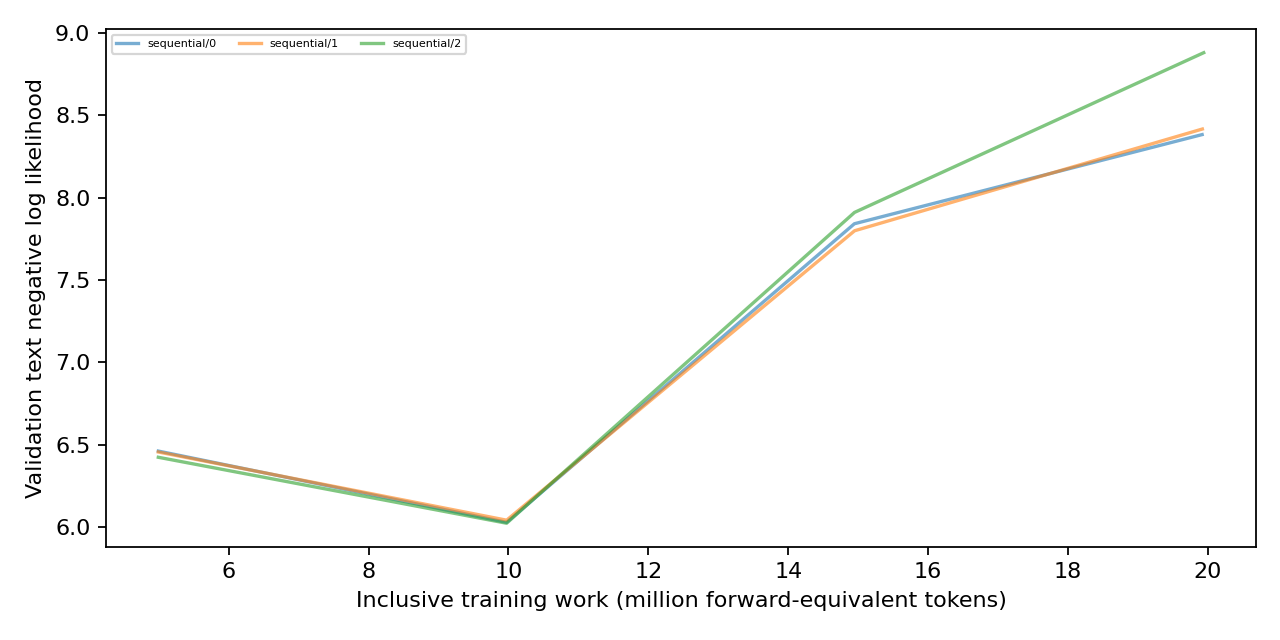
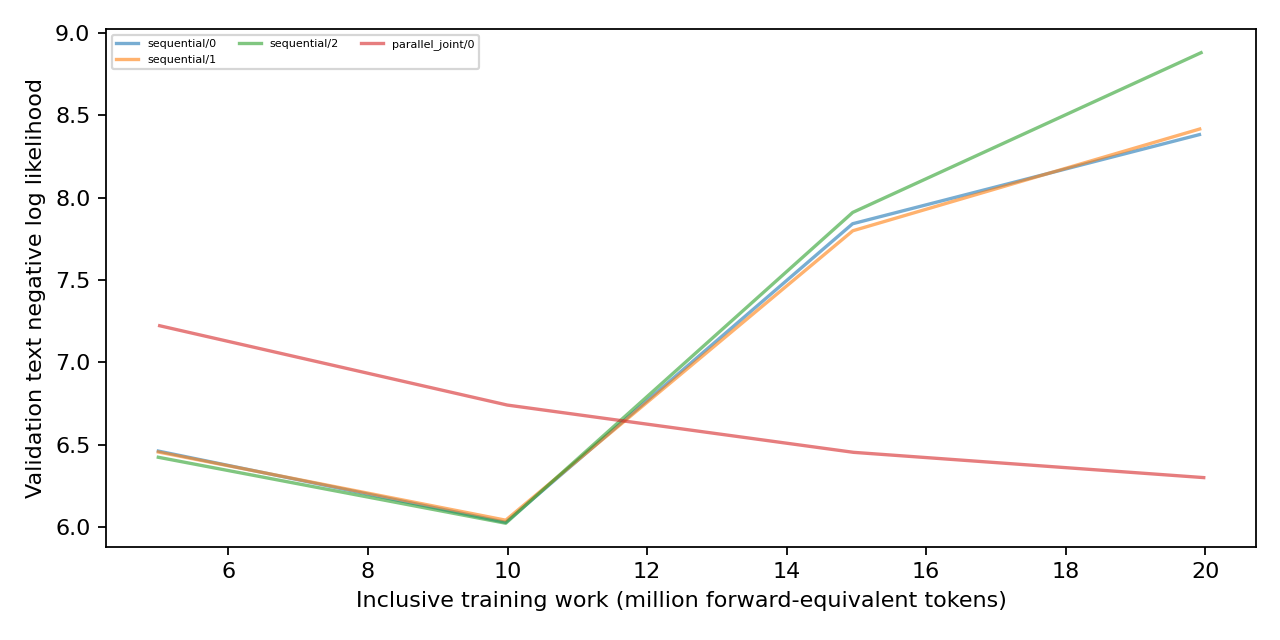
Report verified unified-training pilot progress

diff --git a/experiments/01_scratch_joint_objectives/results.md b/experiments/01_scratch_joint_objectives/results.md
@@ -7,7 +7,7 @@
 | sequential | 0 | complete | 19.918 | 0.2504 [0.2334, 0.2682] | 0.0227 [0.0160, 0.0323] | 8.3725 [8.3531, 8.3909] | 0.5234 [0.4624, 0.5838] / 0.4922 [0.4315, 0.5531] |
 | sequential | 1 | complete | 19.921 | 0.2416 [0.2248, 0.2592] | 0.0235 [0.0166, 0.0332] | 8.3701 [8.3468, 8.3929] | 0.5312 [0.4701, 0.5915] / 0.4688 [0.4085, 0.5299] |
 | sequential | 2 | complete | 19.941 | 0.2580 [0.2408, 0.2760] | 0.0114 [0.0069, 0.0187] | 8.8562 [8.8332, 8.8797] | 0.5117 [0.4508, 0.5723] / 0.5039 [0.4431, 0.5646] |
-| parallel_joint | 0 | pending | unavailable | unavailable | unavailable | unavailable | unavailable |
+| parallel_joint | 0 | complete | 19.979 | 0.2454 [0.2285, 0.2631] | 0.0038 [0.0016, 0.0088] | 6.2521 [6.2239, 6.2815] | 0.4844 [0.4238, 0.5454] / 0.5000 [0.4392, 0.5608] |
 | parallel_joint | 1 | pending | unavailable | unavailable | unavailable | unavailable | unavailable |
 | parallel_joint | 2 | pending | unavailable | unavailable | unavailable | unavailable | unavailable |
 | fixed_joint | 0 | pending | unavailable | unavailable | unavailable | unavailable | unavailable |
@@ -33,7 +33,7 @@ NLL = negative log likelihood; preference raw ordering is the preference endpoin
 
 Intervals: 95% Wilson binary-item score, conditional on each trained model; p-val=n/a (no hypothesis test). Three seeds do not establish universal superiority. Aioli, CHORD (Controllable Harmonization of On- and Off-Policy Reinforcement Learning via Dynamic Weighting), and RPT (Reinforcement Pre-Training) are declared adaptations; exact CHERRY-RL identity remains unresolved.
 
-Complete: 3/24. See `expt_v1/PROTOCOL.md` and the program review reconciliation.
+Complete: 4/24. See `expt_v1/PROTOCOL.md` and the program review reconciliation.
 
 Seed uncertainty, two-stage seed/item intervals, initial-checkpoint changes and all paired comparisons: `expt_v1/analysis.json`. Missing trained seeds remain missing with separate accuracy sensitivity bounds. p-val=n/a throughout; no formal superiority verdict.
 

diff --git a/experiments/00_program/FINAL_STATUS.md b/experiments/00_program/FINAL_STATUS.md
@@ -1,6 +1,6 @@
 # Full-program status
 
-Verified cells: 3/48; failed: 0; interrupted: 0; pending: 45; unstarted at global bound: 0.
+Verified cells: 4/48; failed: 0; interrupted: 0; pending: 44; unstarted at global bound: 0.
 
 Full-program execution is incomplete. Required plan and implementation findings are reconciled; see acceptance.json.
 Results and uncertainty are in each experiment folder; no universal-superiority claim.
